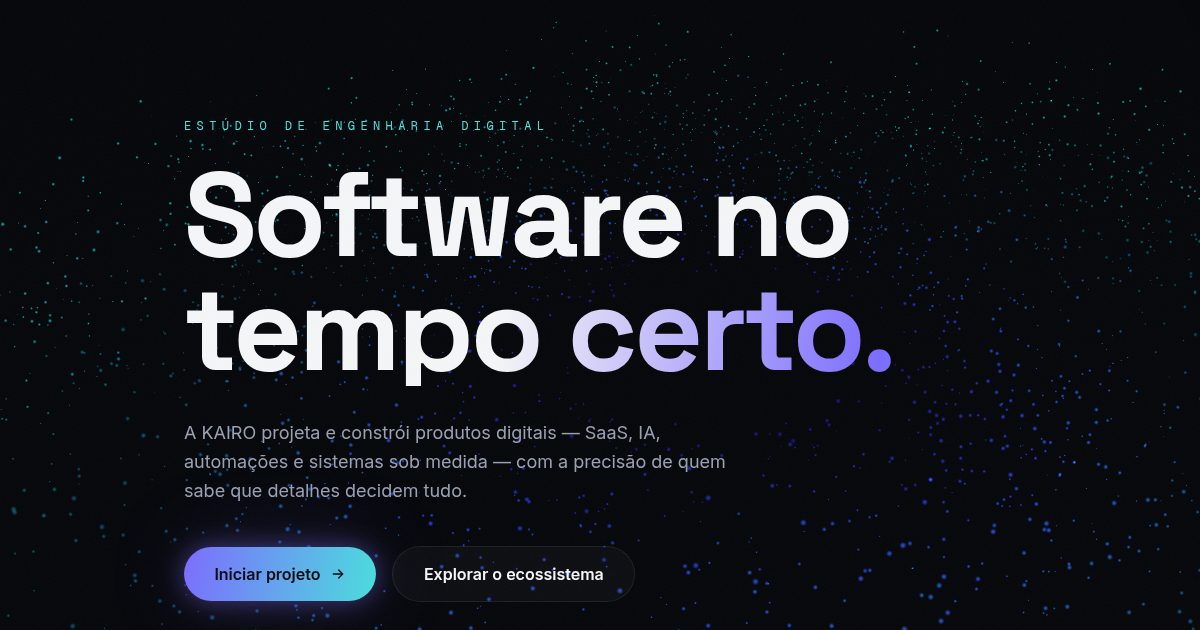
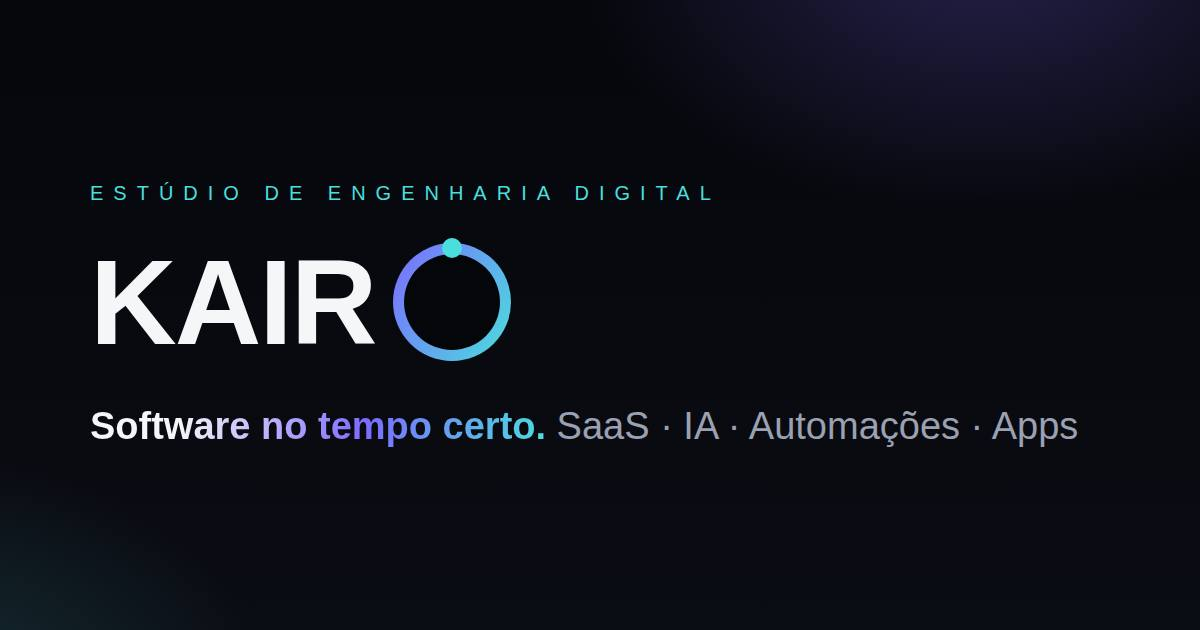
Migra deploy para Vercel com hardening de segurança
CSP, HSTS, anti-clickjacking, Permissions-Policy, COOP/CORP via
vercel.json; security.txt; favicon SVG leve; OG card otimizado;
remove workflow do GitHub Pages e basePath; URLs para o domínio
kairo-kappa-liard.vercel.app; documenta postura de segurança no README.

Claude-Session: https://claude.ai/code/session_01TRVCQhPBTm6wNu7S5qFSkH

diff --git a/next.config.ts b/next.config.ts
@@ -1,15 +1,11 @@
 import type { NextConfig } from "next";
 
-// GITHUB_PAGES=true é setado no workflow de deploy para servir sob /kairo
-const onPages = process.env.GITHUB_PAGES === "true";
-const repo = "kairo";
-
 const nextConfig: NextConfig = {
   output: "export",
   trailingSlash: true,
   images: { unoptimized: true },
-  basePath: onPages ? `/${repo}` : "",
-  assetPrefix: onPages ? `/${repo}/` : undefined,
+  // Cabeçalhos de segurança (CSP etc.) vivem em vercel.json — export estático
+  // não aplica headers do Next em runtime.
 };
 
 export default nextConfig;

diff --git a/src/config/site.ts b/src/config/site.ts
@@ -6,7 +6,7 @@ export const site = {
   tagline: "Software no tempo certo.",
   description:
     "A KAIRO projeta e constrói produtos digitais — SaaS, IA, automações e sistemas sob medida — com a precisão de quem sabe que detalhes decidem tudo.",
-  url: "https://kauagoncalvess.github.io/kairo",
+  url: "https://kairo-kappa-liard.vercel.app",
   github: "https://github.com/KauaGoncalvess/kairo",
   contact: {
     whatsapp: "[phone redacted]",

diff --git a/README.md b/README.md
@@ -2,6 +2,8 @@
 
 Experiência digital premium da **KAIRO**, estúdio de engenharia digital: software sob medida, SaaS, IA, automações, bots de WhatsApp, aplicativos, dashboards, APIs e consultoria.
 
+**Site: https://kairo-kappa-liard.vercel.app**
+
 Uma página cinematográfica: cena WebGL de partículas no hero, ecossistema de serviços orbitando um núcleo (cada serviço recolore a interface inteira ao ser explorado), scroll coreografado, dock flutuante em glassmorphism e motion system próprio.
 
 **Stack**: Next.js 16 (App Router, export estático) · TypeScript · Tailwind CSS 4 · GSAP + ScrollTrigger · Lenis · Three.js + React Three Fiber.
@@ -14,11 +16,21 @@ npm run dev        # http://localhost:3000
 npm run build      # export estático em ./out
 ```
 
-## Publicar (GitHub Pages)
+## Publicar (Vercel)
 
-1. Uma vez só: em **Settings → Pages**, defina **Source: GitHub Actions**.
-2. Todo push em `main` roda `.github/workflows/deploy.yml` (lint → build → deploy).
-3. URL: `https://kauagoncalvess.github.io/kairo/`
+O site roda na Vercel como export estático (projeto `kairo`). Para publicar novas versões automaticamente, conecte este repositório ao projeto na Vercel (Dashboard → Project → Settings → Git) — cada push em `main` vira deploy. Os cabeçalhos de segurança são aplicados via `vercel.json`.
+
+## Segurança
+
+Site 100% estático — sem backend, banco, cookies, sessões ou entrada de usuário renderizada, o que elimina as classes de ataque de servidor (SQLi, RCE, CSRF, session hijacking). Sobre o que resta:
+
+- **CSP** restritiva (`default-src 'self'`, sem `unsafe-eval`, `object-src 'none'`, `frame-ancestors 'none'`), HSTS com preload, `nosniff`, `X-Frame-Options: DENY` (anti-clickjacking), `Referrer-Policy`, `Permissions-Policy` negando câmera/microfone/geolocalização, COOP/CORP — tudo em `vercel.json`.
+- **Zero recursos de terceiros**: fontes self-hosted via `next/font`, nenhum CDN, analytics ou script externo — sem supply chain de runtime.
+- **Links externos** (`wa.me`) com `rel="noopener noreferrer"` (anti reverse-tabnabbing) e parâmetros via `encodeURIComponent`.
+- **`.well-known/security.txt`** para reporte responsável de vulnerabilidades.
+- **Dependências**: `npm audit` limpo em runtime; único apontamento é o `postcss` embutido no Next.js (moderado, ferramenta de build — não roda em produção; risco aceito até correção upstream).
+
+Reporte de vulnerabilidades: abra uma issue em https://github.com/KauaGoncalvess/kairo/issues.
 
 ## Contatos e conteúdo
 

diff --git a/docs/GUIA.md b/docs/GUIA.md
@@ -42,7 +42,7 @@ Regras:
 - **Contatos**: troque os placeholders de WhatsApp/e-mail em `src/config/site.ts` (comentários `PLACEHOLDER`).
 - **Conteúdo**: serviços, processo, métricas e stack também vivem em `src/config/site.ts` — o site inteiro reage.
 - **Rodar local**: `npm install && npm run dev` (http://localhost:3000). Build: `npm run build` → `out/`.
-- **Deploy**: push em `main` dispara `.github/workflows/deploy.yml` (lint → build → Pages). Passo único manual: em *Settings → Pages*, definir **Source: GitHub Actions**.
+- **Deploy**: Vercel (projeto `kairo`, export estático). Headers de segurança em `vercel.json`. Conecte o repositório na Vercel para deploy automático a cada push em `main`.
 
 ## Evolução futura
 